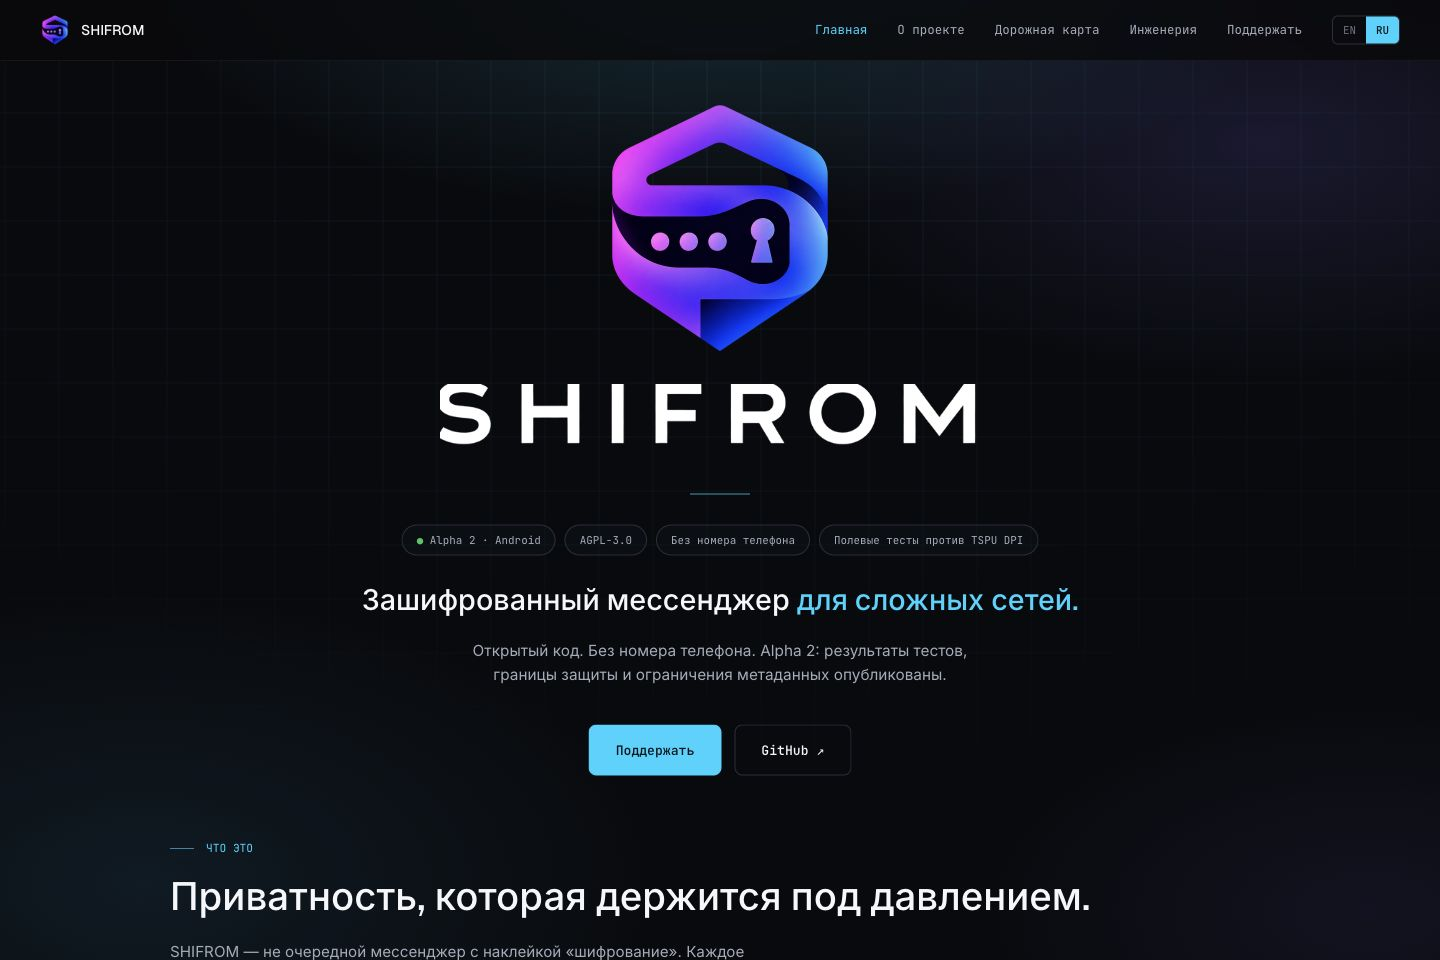
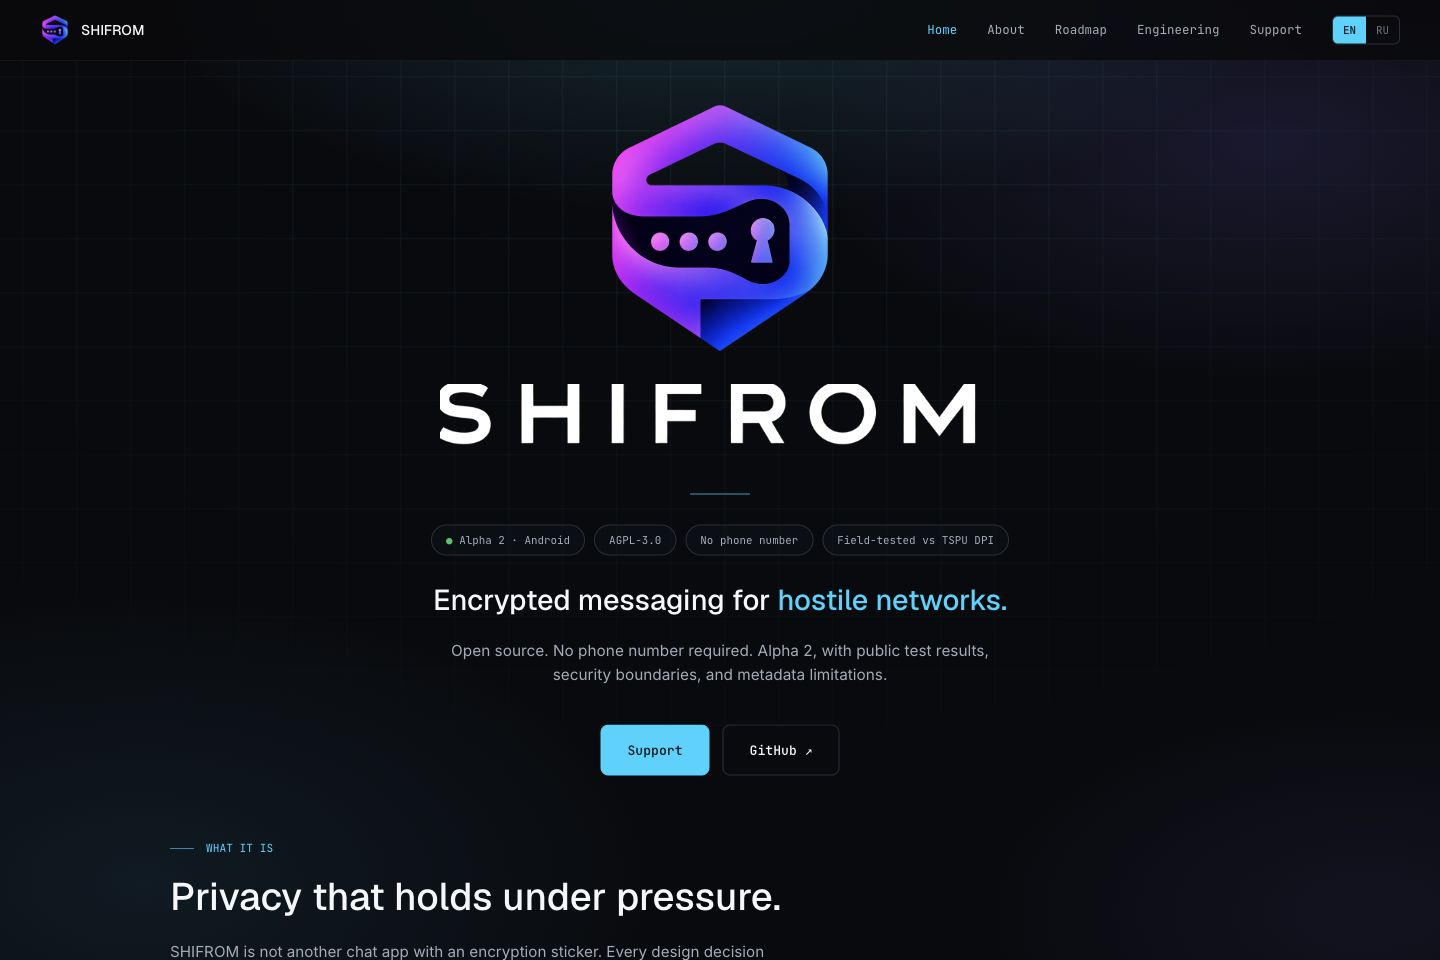
Use English homepage previews in website review

diff --git a/docs/branding/SHIFROM-WEBSITE-REVIEW.md b/docs/branding/SHIFROM-WEBSITE-REVIEW.md
@@ -8,7 +8,7 @@ The homepage keeps the former centered composition with the approved SHIFROM mar
 
 | Desktop | Mobile |
 | --- | --- |
-| ![Russian homepage at 1440 x 960](site-shifrom-home-desktop.png) | ![Russian homepage at 390 x 844](site-shifrom-home-mobile.png) |
+| ![English homepage at 1440 x 960](site-shifrom-home-desktop.png) | ![English homepage at 390 x 844](site-shifrom-home-mobile.png) |
 
 I checked both homepages at 1440 x 960, 1366 x 768, 1920 x 1080, 390 x 844 and 320 x 740. Fonts and artwork load; hero content stays within the viewport, and the next section remains visible. These are responsive reference checks, not pixel-identical reproduction of an old screenshot with unknown browser zoom.
 
